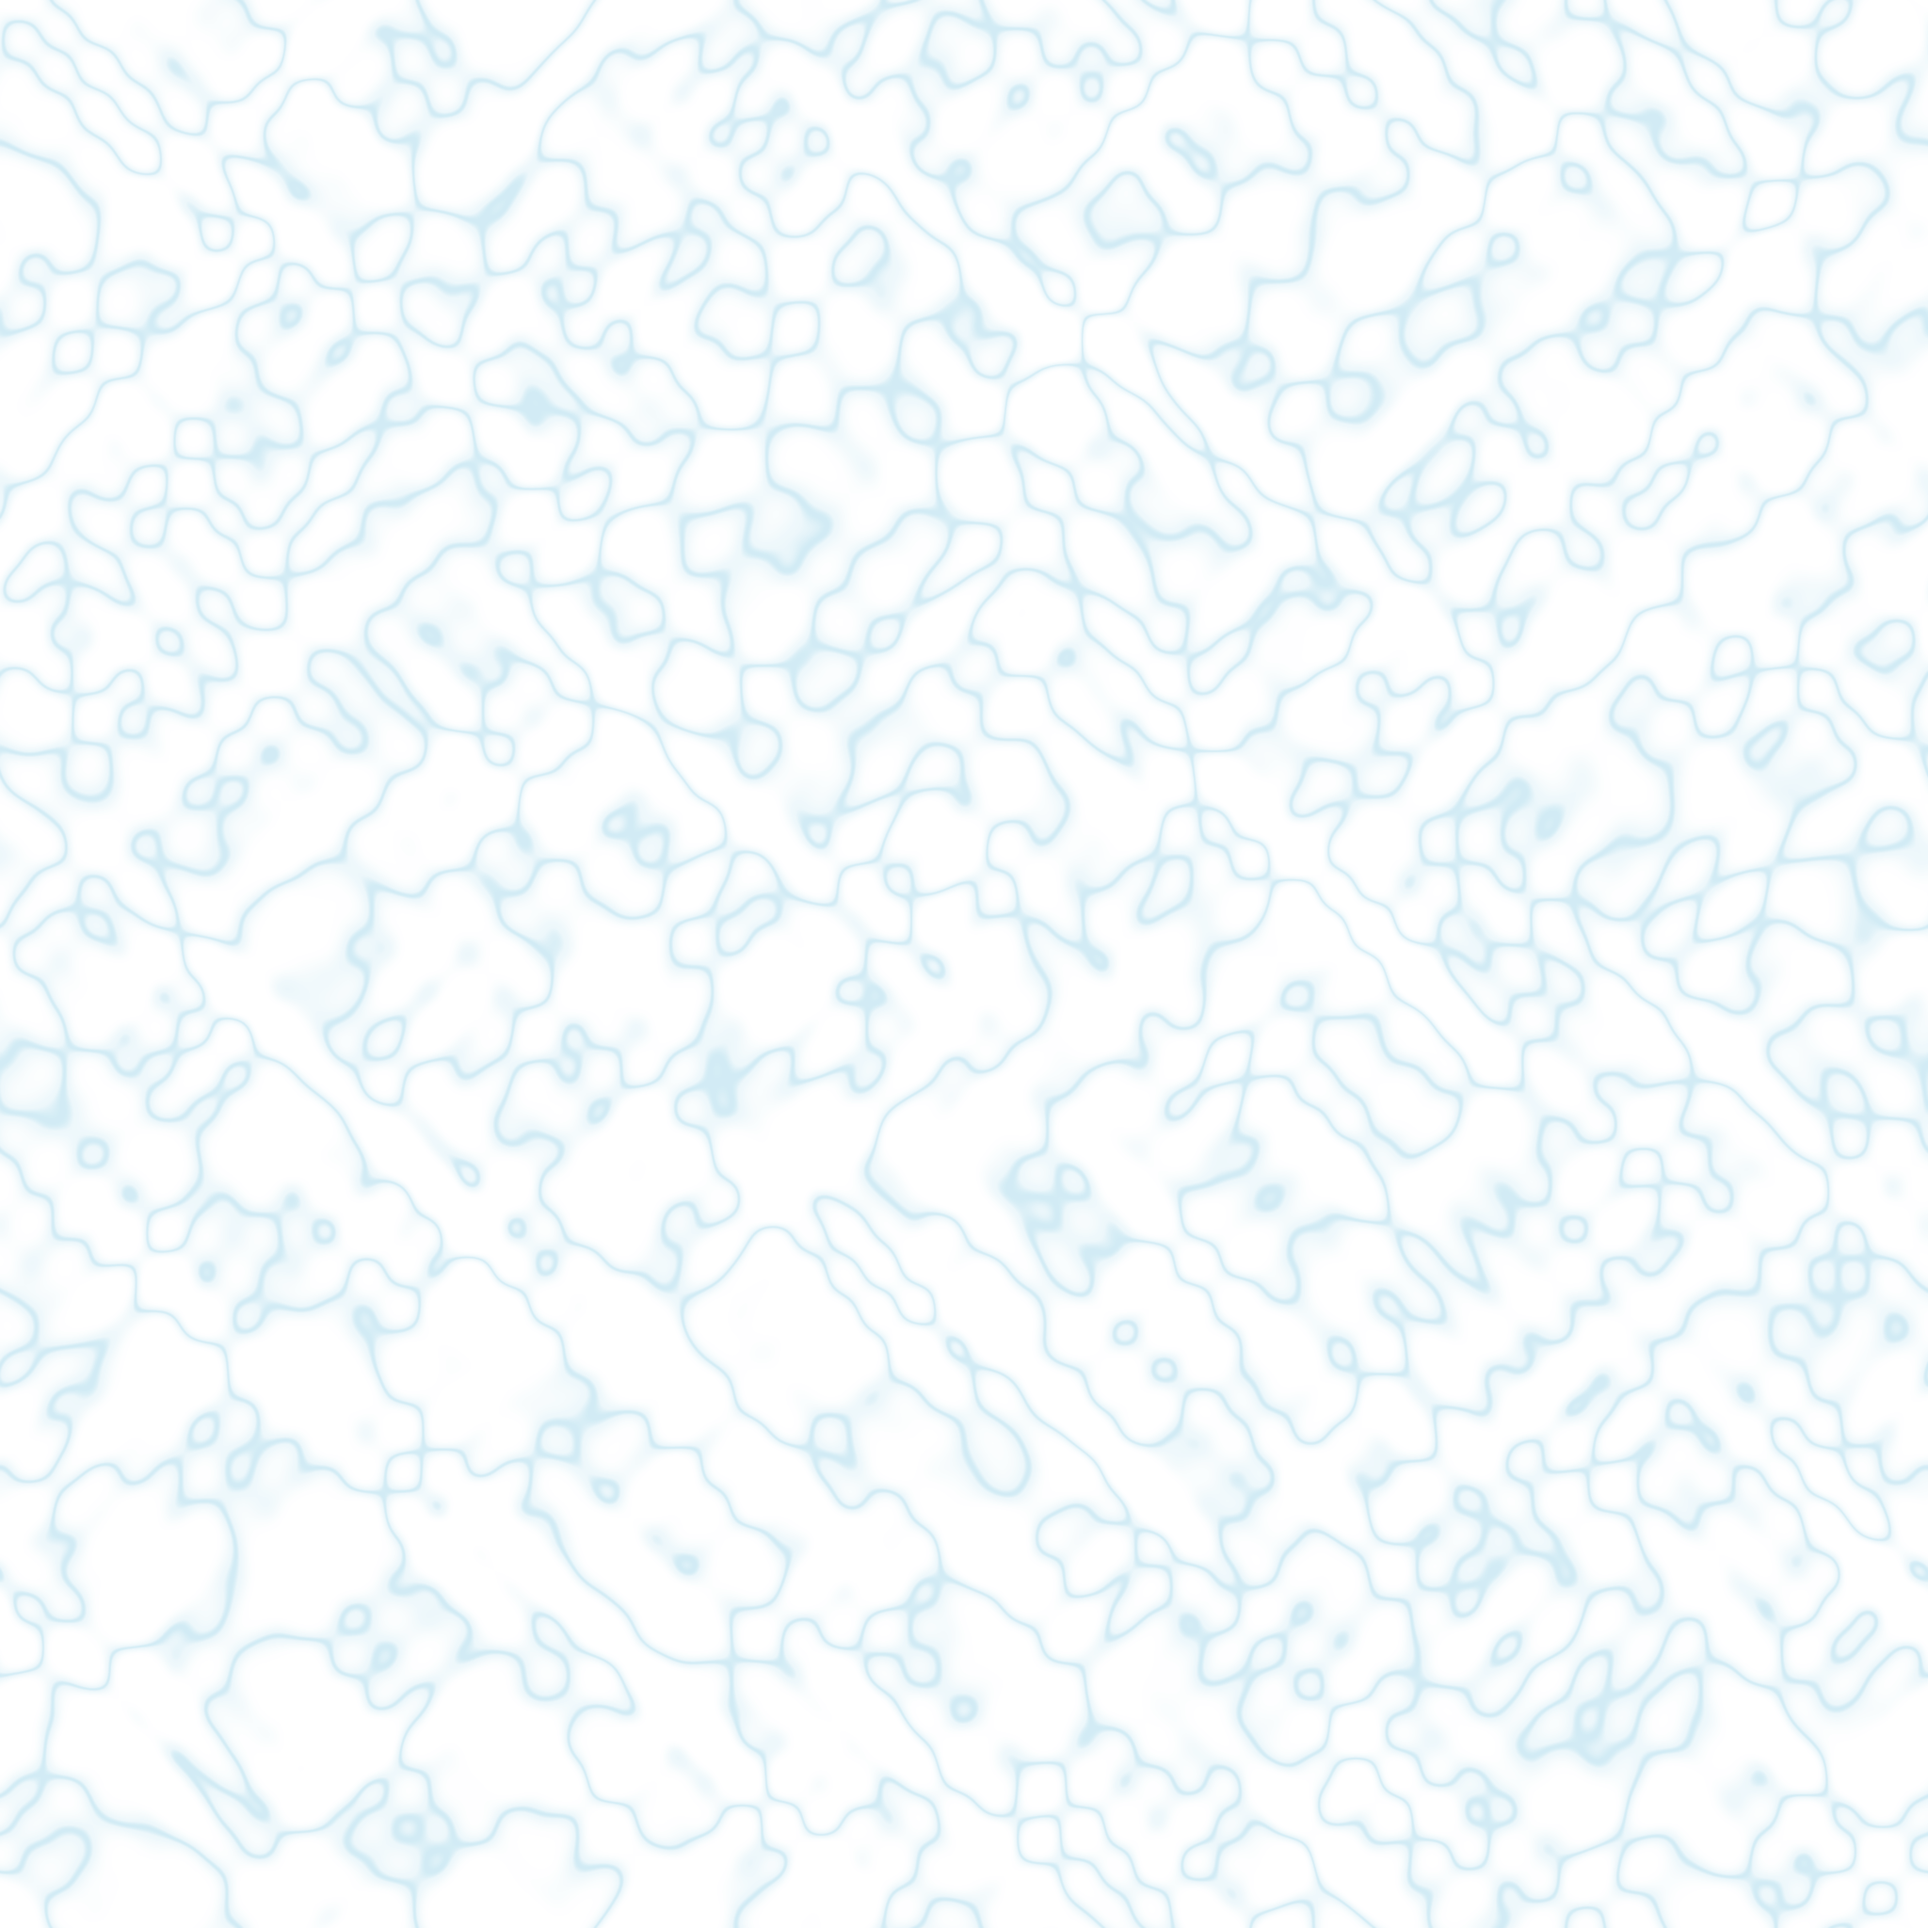
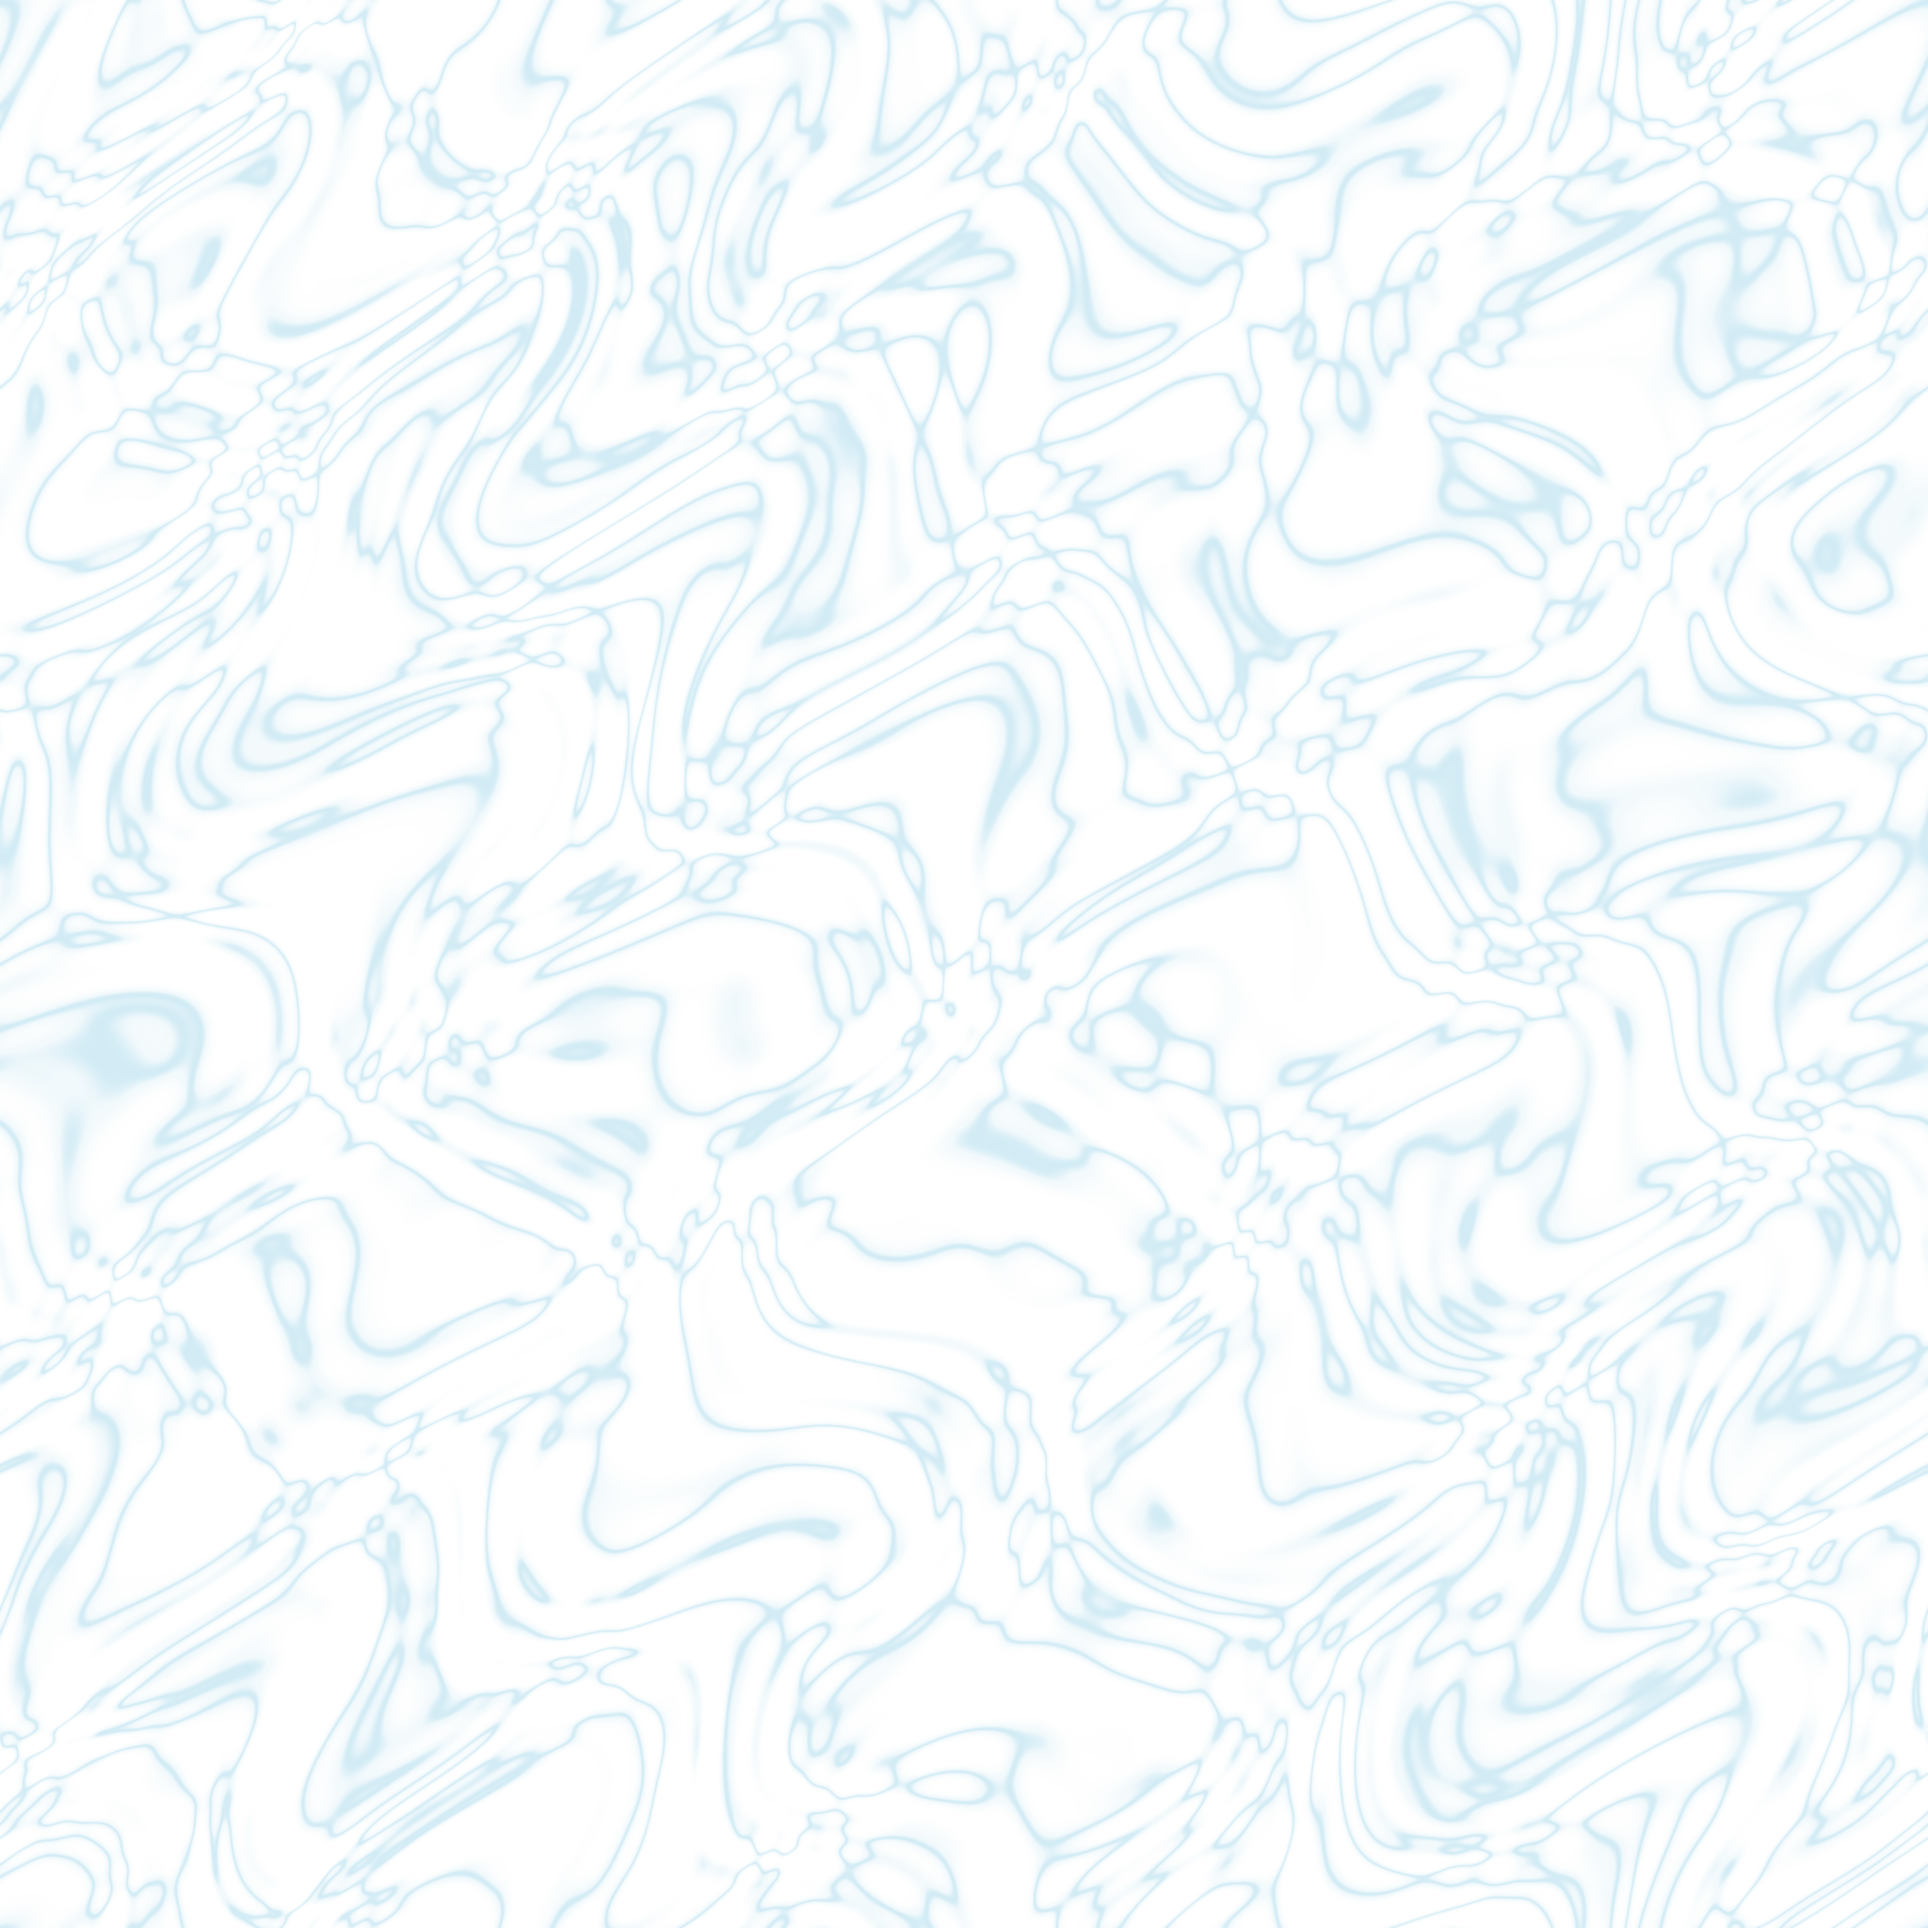
fix(scene): органическая каустика с искажением, без сетки повторов

Changed region(s): [[0.0, 0.0, 1.0, 1.0]]

diff --git a/draft-front_1.2ds/src/modules/Roleplay/Scene/Service/SceneWaterService.ts b/draft-front_1.2ds/src/modules/Roleplay/Scene/Service/SceneWaterService.ts
@@ -64,7 +64,8 @@ const CAUSTICS_ALPHA = 0.2;
  *
  * Текстура 2048² содержит столько же ячеек, сколько прежняя 512², но занимает
  * вчетверо большую площадь: рисунок того же масштаба повторяется вчетверо
- * реже, поэтому на широкой реке не читается сеткой тайлов.
+ * реже, поэтому на широкой реке не читается сеткой тайлов. Сами ячейки
+ * искажены низкочастотным полем, чтобы сетка не выглядела регулярной.
  */
 const CAUSTICS_PERIOD_IPARI = 6.8;
 

diff --git a/draft-front_1.2ds/src/modules/Roleplay/Scene/Asset/Terrain/README.md b/draft-front_1.2ds/src/modules/Roleplay/Scene/Asset/Terrain/README.md
@@ -29,8 +29,9 @@
 метре.
 
 `water_caustics.png` — 2048×2048: ячейки того же размера, что у прежней 512²,
-но вчетверо больше ячеек на тайл. В сцене тайл занимает 6.8 ипари, поэтому
-рисунок повторяется вчетверо реже и на широкой реке не складывается в сетку.
+но вчетверо больше ячеек на тайл, и сами ячейки искажены низкочастотным полем.
+В сцене тайл занимает 6.8 ипари, поэтому рисунок повторяется вчетверо реже и на
+широкой реке не складывается в сетку.
 
 `water_macro.png` — почти белая карта тона: в сцене ложится множителем
 (`multiply`) с периодом 44 ипари и чуть приглушает светлые участки. Она не
